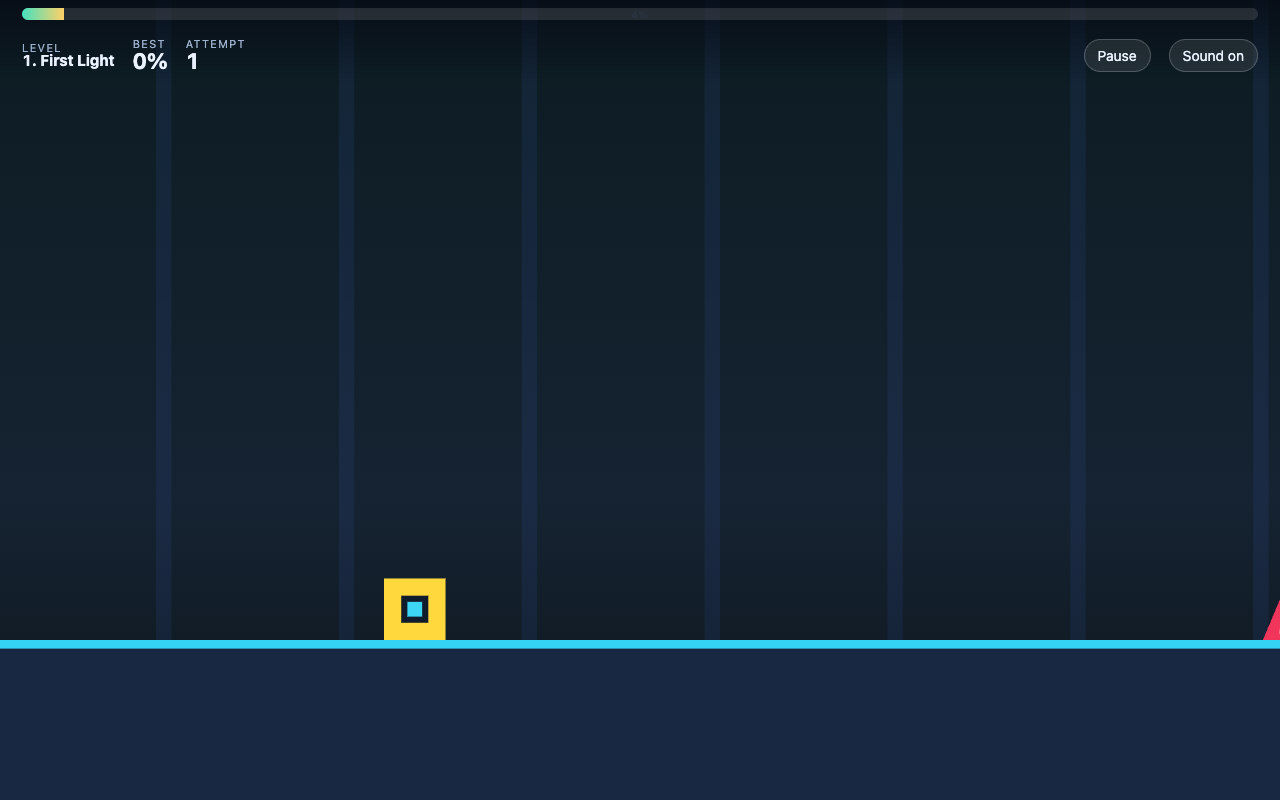
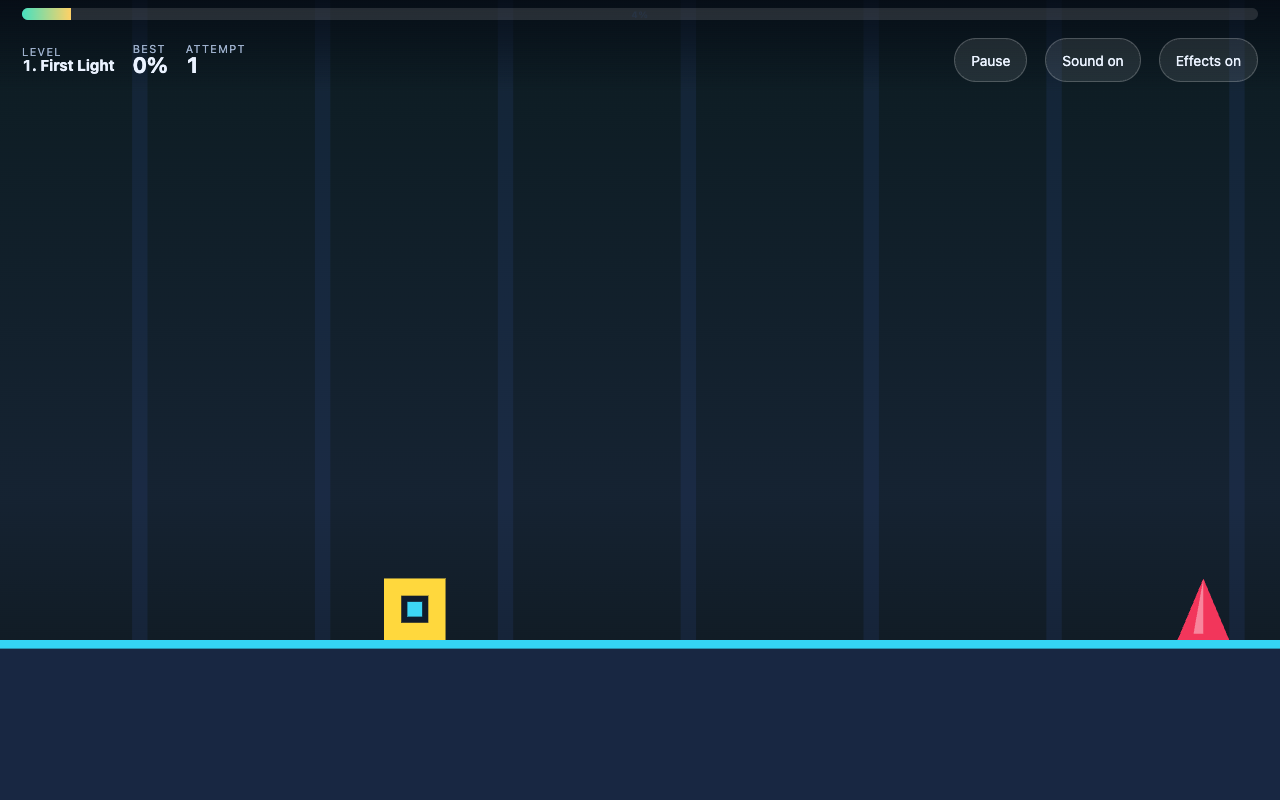
Mobile: scope touch-action, cap DPR at 2, 44px targets, reduced effects
Measured against the same build at 360x640/390x844/430x932, short landscape
and desktop (scripts/mobile-audit.mjs, added here).

- touch-action moves off html,body onto #scene. The play surface still
  swallows gestures; .panel keeps scrolling on a short screen, which it
  could not reliably do while the whole document was touch-action:none.
- DPR cap 2.5 -> 2. Backing store at 390x844 drops 975x2110 -> 780x1688,
  about 36% fewer pixels shaded per frame, with no visible change to
  flat-shaded rectangles. Screen shake converts CSS px to device px with
  the same number, so the shake distance on screen is unchanged.
- Touch targets: min-height/min-width 44px, padding 8px 16px, row gap
  7px -> 10px. Before: 7-8 buttons at 29-33px tall (pause, mute, every
  level and mode button). After: 0 under 44px at all five viewports.
- Reduced effects: prefers-reduced-motion is honoured, plus a persisted
  Effects button. It suppresses shake, the beat pulse and debris drawing
  only - all inside the renderer, so simulation state and therefore
  collision and scoring stay identical between the two modes.

31 unit tests and 64/64 browser smoke checks pass unchanged.

diff --git a/src/style.css b/src/style.css
@@ -15,12 +15,24 @@ html, body {
   background: #0d1626;
   color: var(--ink);
   font-family: system-ui, -apple-system, 'Segoe UI', Roboto, sans-serif;
-  touch-action: none;
+  /* Scoped, not global: the play surface swallows gestures, but a panel that
+     overflows on a short screen must still scroll. `manipulation` keeps the
+     double-tap-zoom delay off the menus without freezing them. */
+  touch-action: manipulation;
+  overscroll-behavior: none;
   -webkit-user-select: none;
   user-select: none;
 }
 
-#scene { position: fixed; inset: 0; width: 100%; height: 100%; display: block; cursor: pointer; }
+#scene {
+  position: fixed;
+  inset: 0;
+  width: 100%;
+  height: 100%;
+  display: block;
+  cursor: pointer;
+  touch-action: none; /* the one surface where a swipe must never scroll */
+}
 
 #hud {
   position: fixed;
@@ -74,12 +86,16 @@ html, body {
 button {
   pointer-events: auto;
   font: inherit;
-  font-size: clamp(11px, 2.8vw, 14px);
+  font-size: clamp(12px, 2.8vw, 14px);
   color: var(--ink);
   background: rgba(255, 255, 255, 0.09);
   border: 1px solid rgba(255, 255, 255, 0.2);
   border-radius: 999px;
-  padding: 7px 13px;
+  /* Project acceptance is a 44 CSS px target. The box is what the finger
+     hits, so it is enforced here rather than by growing the font. */
+  min-height: 44px;
+  min-width: 44px;
+  padding: 8px 16px;
   cursor: pointer;
 }
 button:hover { background: rgba(255, 255, 255, 0.17); }
@@ -116,8 +132,8 @@ h1 { margin: 0 0 12px; font-size: clamp(22px, 6vw, 36px); letter-spacing: -0.01e
 #overlay-body .big { font-size: clamp(36px, 11vw, 56px); font-weight: 800; color: var(--accent); margin: 4px 0; }
 #overlay-body .big span { display: block; font-size: clamp(11px, 2.8vw, 13px); font-weight: 600; color: var(--muted); }
 
-.picker { display: flex; flex-direction: column; gap: 8px; margin-bottom: 14px; }
-.row { display: flex; gap: 7px; justify-content: center; flex-wrap: wrap; }
+.picker { display: flex; flex-direction: column; gap: 10px; margin-bottom: 14px; }
+.row { display: flex; gap: 10px; justify-content: center; flex-wrap: wrap; }
 #overlay.no-picker .picker { display: none; }
 .level.on, .mode.on { background: var(--accent); color: #16233a; border-color: var(--accent); font-weight: 700; }
 
@@ -131,3 +147,10 @@ h1 { margin: 0 0 12px; font-size: clamp(22px, 6vw, 36px); letter-spacing: -0.01e
   border-color: var(--accent);
 }
 #overlay-action:hover { filter: brightness(1.08); background: var(--accent); }
+
+/* Honour the OS setting for the DOM chrome too. The canvas side is handled in
+   render.ts, which the in-game Effects button also drives. */
+@media (prefers-reduced-motion: reduce) {
+  #progress-fill { transition: none; }
+  #overlay { backdrop-filter: none; }
+}

diff --git a/src/game/render.ts b/src/game/render.ts
@@ -7,6 +7,9 @@ import type { Entity, GameState } from './types';
 export class Renderer {
   private ctx: CanvasRenderingContext2D;
   dpr = 1;
+  /** Cosmetic only. Suppresses shake, the beat pulse and debris; it never
+   *  touches simulation state, so scoring and collisions stay identical. */
+  reducedMotion = false;
 
   constructor(private canvas: HTMLCanvasElement) {
     const ctx = canvas.getContext('2d');
@@ -18,7 +21,11 @@ export class Renderer {
     const rect = this.canvas.getBoundingClientRect();
     const cssW = Math.max(1, Math.round(rect.width));
     const cssH = Math.max(1, Math.round(rect.height));
-    this.dpr = Math.min(window.devicePixelRatio || 1, 2.5);
+    // Capped at 2: a 3x phone gains no visible sharpness on flat-shaded
+    // rectangles but pays for 2.25x the fill. Shake below converts CSS px to
+    // device px with this same number, so the cap does not change how far the
+    // screen appears to move.
+    this.dpr = Math.min(window.devicePixelRatio || 1, 2);
     this.canvas.width = Math.round(cssW * this.dpr);
     this.canvas.height = Math.round(cssH * this.dpr);
     return { cssW, cssH };
@@ -29,7 +36,7 @@ export class Renderer {
     const level = levelAt(state.levelIndex);
     const beat = beatAt(level, state.time);
     // 0 on the beat, 1 just after - the whole scene breathes on this.
-    const pulse = Math.max(0, 1 - (beat % 1) * 2.6);
+    const pulse = this.reducedMotion ? 0 : Math.max(0, 1 - (beat % 1) * 2.6);
 
     ctx.setTransform(1, 0, 0, 1, 0, 0);
     this.background(state, pulse);
@@ -44,7 +51,9 @@ export class Renderer {
     const camY = -Math.max(FLOOR_MARGIN, state.viewH * 0.18);
 
     ctx.save();
-    if (state.shake > 0) {
+    if (state.shake > 0 && !this.reducedMotion) {
+      // 7 CSS px at full strength, converted to device px. Purely cosmetic:
+      // it is inside save()/restore() and never feeds collision or scoring.
       const k = state.shake * 7 * this.dpr;
       ctx.translate((Math.random() - 0.5) * k, (Math.random() - 0.5) * k);
     }
@@ -61,7 +70,9 @@ export class Renderer {
     }
     if (level.length >= camX - 2 && level.length <= camX + state.viewW + 2) this.goal(level.length, state);
 
-    for (const q of state.particles) {
+    // Debris is the single biggest source of flicker; drop it here, not from
+    // the simulation, so state stays byte-identical between the two modes.
+    for (const q of this.reducedMotion ? [] : state.particles) {
       ctx.globalAlpha = Math.max(0, q.life / q.maxLife);
       ctx.fillStyle = q.color;
       ctx.fillRect(q.x - q.size / 2, q.y - q.size / 2, q.size, q.size);

diff --git a/src/game/game.ts b/src/game/game.ts
@@ -16,7 +16,7 @@ import {
   viewSizeFor,
 } from './logic';
 import { Renderer } from './render';
-import { loadBest, loadMuted, saveBest, saveMuted } from './storage';
+import { loadBest, loadMuted, loadReducedMotion, saveBest, saveMuted, saveReducedMotion } from './storage';
 import type { GameState, Mode, Phase } from './types';
 
 export interface GameElements {
@@ -34,6 +34,7 @@ export interface GameElements {
   levelName: HTMLElement;
   pauseBtn: HTMLButtonElement;
   muteBtn: HTMLButtonElement;
+  motionBtn: HTMLButtonElement;
 }
 
 const pct = (v: number): string => `${Math.floor(v * 100)}%`;
@@ -54,6 +55,8 @@ export class Game {
     this.renderer = new Renderer(el.canvas);
     this.sfx.setMuted(loadMuted());
     this.el.muteBtn.textContent = this.sfx.muted ? 'Sound off' : 'Sound on';
+    this.renderer.reducedMotion = loadReducedMotion();
+    this.applyMotionLabel();
 
     this.input = new InputState(el.canvas, {
       press: () => this.onPress(),
@@ -65,6 +68,7 @@ export class Game {
     el.overlayAction.addEventListener('click', () => this.confirm());
     el.pauseBtn.addEventListener('click', () => this.togglePause());
     el.muteBtn.addEventListener('click', () => this.toggleMute());
+    el.motionBtn.addEventListener('click', () => this.toggleMotion());
     for (const b of el.levelButtons) {
       b.addEventListener('click', () => this.selectLevel(Number(b.dataset.level)));
     }
@@ -211,6 +215,21 @@ export class Game {
     this.el.overlay.classList.add('hidden');
     this.sfx.startMusic(level.bpm, beatAt(level, this.state.time));
     this.last = performance.now();
+  }
+
+  /** Cosmetic switch only - it changes what is drawn, never what is
+   *  simulated, so a best set with effects off is the same run either way. */
+  private toggleMotion(): void {
+    const next = !this.renderer.reducedMotion;
+    this.renderer.reducedMotion = next;
+    saveReducedMotion(next);
+    this.applyMotionLabel();
+  }
+
+  private applyMotionLabel(): void {
+    const on = this.renderer.reducedMotion;
+    this.el.motionBtn.textContent = on ? 'Effects low' : 'Effects on';
+    this.el.motionBtn.setAttribute('aria-pressed', String(on));
   }
 
   private toggleMute(): void {

diff --git a/src/game/storage.ts b/src/game/storage.ts
@@ -2,6 +2,7 @@
  *  throws in private browsing and a blocked read must not take the game down. */
 const bestKey = (levelId: number): string => `pulse-cube:best:${levelId}`;
 const MUTE_KEY = 'pulse-cube:muted';
+const MOTION_KEY = 'pulse-cube:reduced-motion';
 
 /** Best progress through a level, 0..1. Only normal-mode runs write here. */
 export function loadBest(levelId: number): number {
@@ -32,6 +33,28 @@ export function loadMuted(): boolean {
 export function saveMuted(m: boolean): void {
   try {
     localStorage.setItem(MUTE_KEY, m ? '1' : '0');
+  } catch {
+    /* ignore */
+  }
+}
+
+/** Reduced effects. Unset falls back to the OS preference, so a user who has
+ *  already asked the system for less motion gets it without finding a toggle;
+ *  an explicit choice here wins over the media query from then on. */
+export function loadReducedMotion(): boolean {
+  try {
+    const v = localStorage.getItem(MOTION_KEY);
+    if (v === '1') return true;
+    if (v === '0') return false;
+  } catch {
+    /* fall through to the OS preference */
+  }
+  return typeof matchMedia === 'function' && matchMedia('(prefers-reduced-motion: reduce)').matches;
+}
+
+export function saveReducedMotion(on: boolean): void {
+  try {
+    localStorage.setItem(MOTION_KEY, on ? '1' : '0');
   } catch {
     /* ignore */
   }

diff --git a/index.html b/index.html
@@ -21,6 +21,7 @@
       <div class="hud-spacer"></div>
       <button id="pause-btn" type="button">Pause</button>
       <button id="mute-btn" type="button" aria-pressed="false">Sound on</button>
+      <button id="motion-btn" type="button" aria-pressed="false" title="Reduce shake, flashes and debris">Effects on</button>
     </header>
 
     <div id="overlay">

diff --git a/src/main.ts b/src/main.ts
@@ -23,6 +23,7 @@ const game = new Game({
   levelName: el('level-name'),
   pauseBtn: el<HTMLButtonElement>('pause-btn'),
   muteBtn: el<HTMLButtonElement>('mute-btn'),
+  motionBtn: el<HTMLButtonElement>('motion-btn'),
 });
 
 // Exposed so the Playwright smoke test can inspect real simulation state
